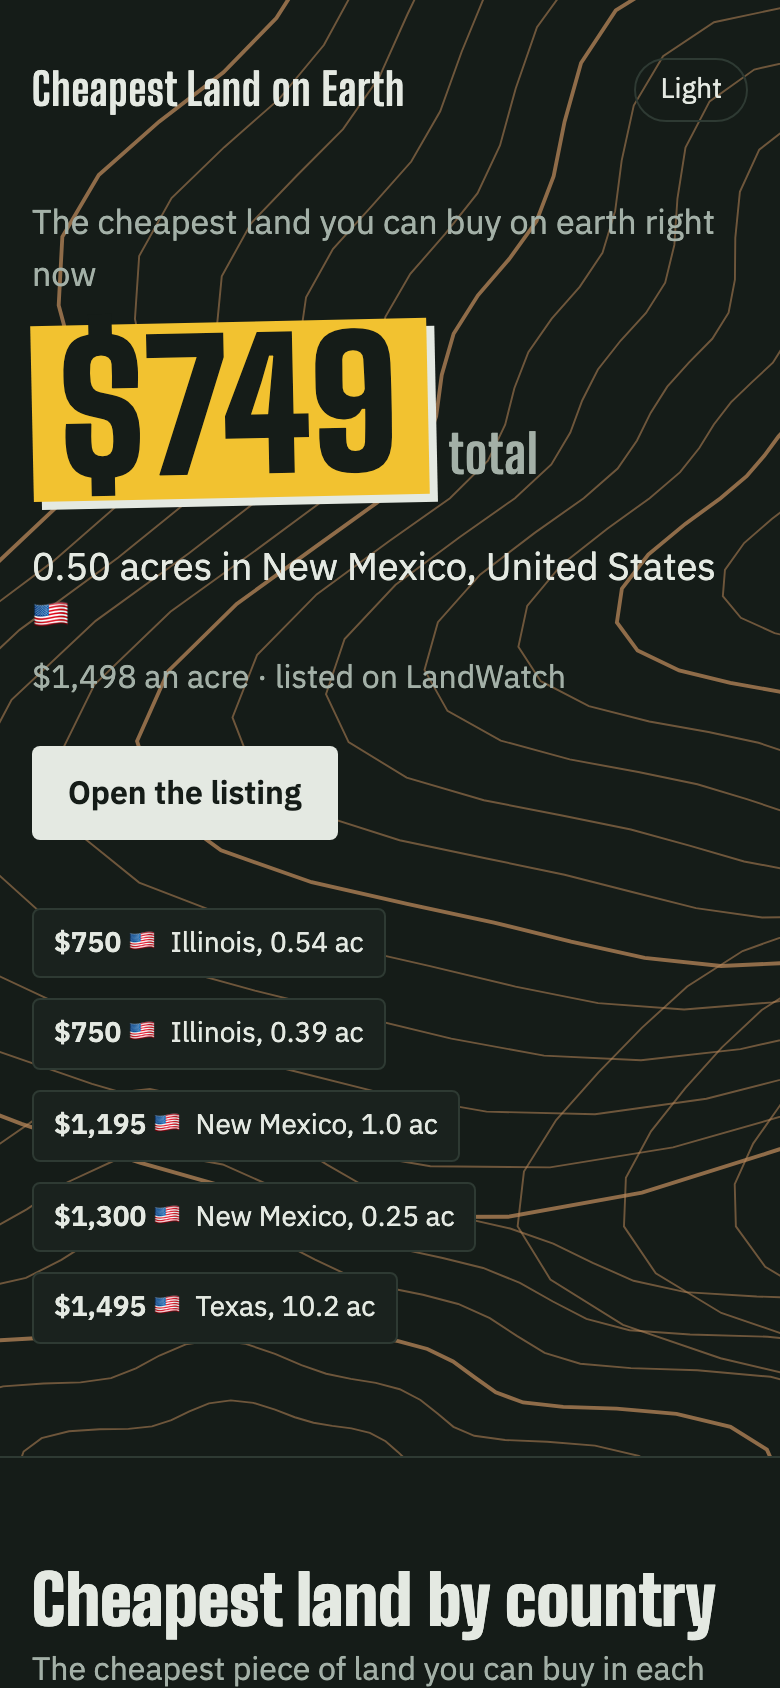
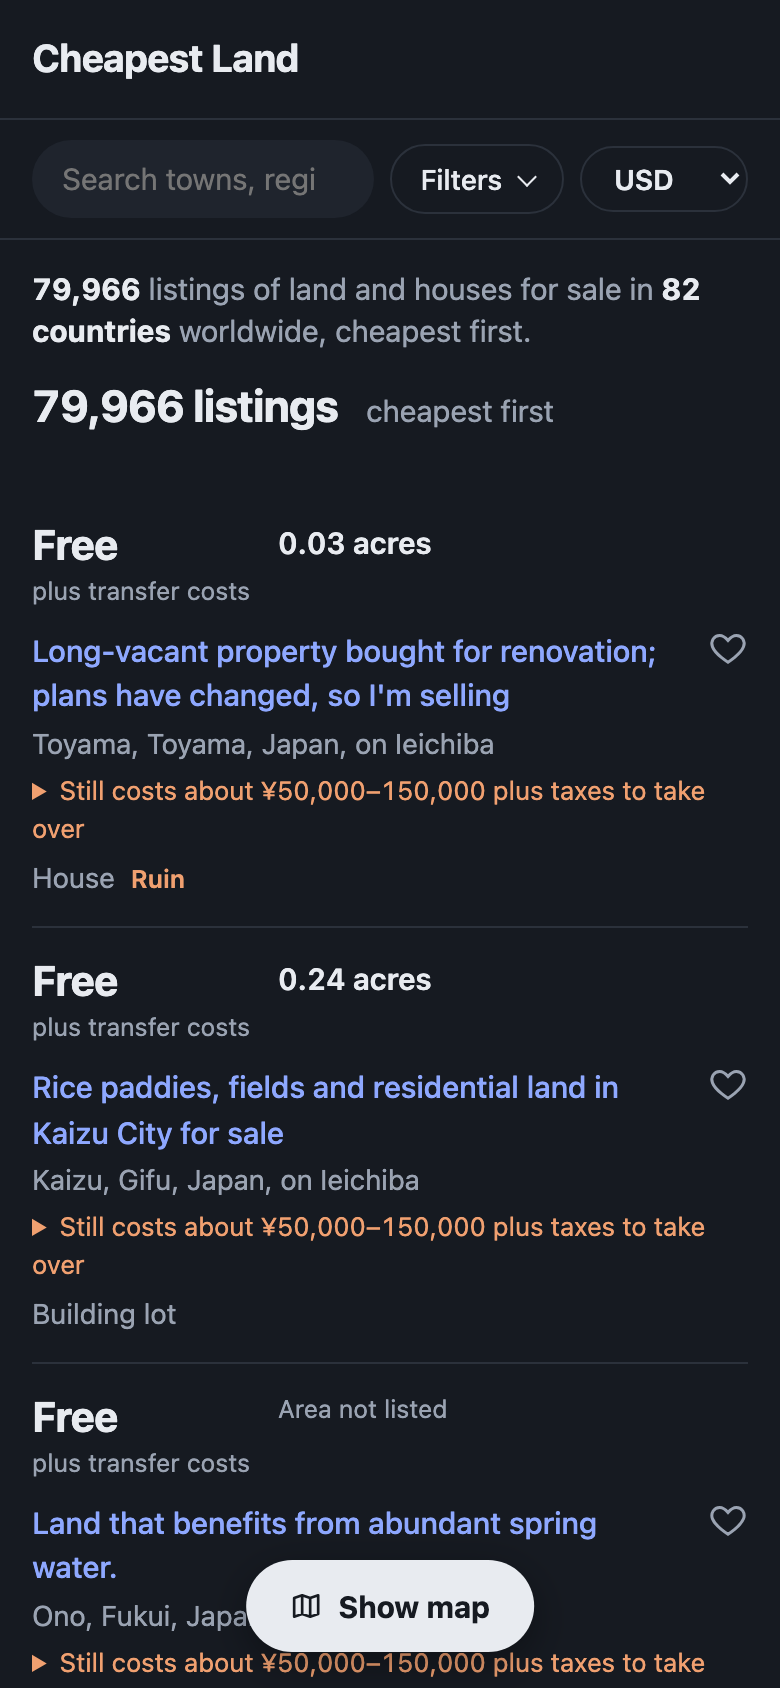
README: screenshots of the current site, and a script to retake them
The old ones showed the October design. tools/screenshots.py takes the list,
map, a Europe filter and a dark-mode phone view from the site/ build.

diff --git a/tools/screenshots.py b/tools/screenshots.py
@@ -1,0 +1,73 @@
+#!/usr/bin/env python3
+"""Retake the README screenshots (docs/screenshots/) from the current site/ build, in headless Chromium.
+Run it after a scrape (or tools/rebuild_site.py) whenever the site's look changes:
+  .venv/bin/python tools/screenshots.py
+"""
+import functools, http.server, os, threading
+
+from playwright.sync_api import sync_playwright
+
+ROOT = os.path.dirname(os.path.dirname(os.path.abspath(__file__)))
+SITE, OUT = os.path.join(ROOT, "site"), os.path.join(ROOT, "docs", "screenshots")
+# the storage notice only shows on a first visit; the shots show the page as a returning visitor sees it
+QUIET = "try { localStorage.setItem('notice-ok', '1'); localStorage.setItem('counted', '1'); } catch (e) {}"
+
+
+class Quiet(http.server.SimpleHTTPRequestHandler):
+    def log_message(self, *args):
+        pass
+
+
+def serve():
+    server = http.server.ThreadingHTTPServer(("127.0.0.1", 0), functools.partial(Quiet, directory=SITE))
+    threading.Thread(target=server.serve_forever, daemon=True).start()
+    return server, "http://127.0.0.1:%d/" % server.server_port
+
+
+def open_page(browser, url, **context):
+    page = browser.new_context(**context).new_page()
+    page.add_init_script(QUIET)
+    page.goto(url)
+    page.wait_for_function("!document.getElementById('count').classList.contains('loading')", timeout=60000)
+    page.wait_for_timeout(800)  # the rows' fade-in
+    return page
+
+
+def shoot(page, name):
+    page.screenshot(path=os.path.join(OUT, name))
+    print("wrote docs/screenshots/" + name)
+
+
+def main():
+    assert os.path.exists(os.path.join(SITE, "data.json")), "no site/ build: run a scrape or tools/rebuild_site.py first"
+    os.makedirs(OUT, exist_ok=True)
+    server, url = serve()
+    desktop = dict(viewport={"width": 1440, "height": 900}, color_scheme="light")
+    with sync_playwright() as pw:
+        browser = pw.chromium.launch()
+
+        page = open_page(browser, url, **desktop)  # the list, cheapest first
+        shoot(page, "list.png")
+
+        page.click("#t-map")  # every listing on the map
+        page.wait_for_timeout(3000)  # map tiles
+        shoot(page, "map.png")
+
+        page = open_page(browser, url, **desktop)  # filtered to one continent
+        page.click("#b-where")
+        page.locator("#tfcont label", has_text="Europe").first.click()
+        page.keyboard.press("Escape")
+        page.mouse.move(0, 0)  # no row hover highlight
+        page.evaluate("scrollTo(0, 0)")
+        page.wait_for_timeout(800)
+        shoot(page, "europe.png")
+
+        page = open_page(browser, url, viewport={"width": 390, "height": 844}, device_scale_factor=2,
+                         color_scheme="dark", is_mobile=True, has_touch=True)
+        shoot(page, "phone.png")
+        browser.close()
+    server.shutdown()
+
+
+if __name__ == "__main__":
+    main()

diff --git a/README.md b/README.md
@@ -23,10 +23,12 @@ Every row links to the live listing.
 
 <br>
 
-| Desktop | Phone (dark mode) |
+| Every listing, cheapest first | On a phone, in dark mode |
 |---|---|
-| ![Home page: today's cheapest listing and the runners-up](docs/screenshots/home.png) | <img src="docs/screenshots/phone.png" alt="Home page on a phone in dark mode" width="260"> |
-| ![Map of every listing with coordinates, coloured by total price](docs/screenshots/map.png) | ![Listings table filtered to Poland, at least 1 acre](docs/screenshots/listings.png) |
+| ![The list view: filters on the left, listings ranked by total price with land size, location, type and source](docs/screenshots/list.png) | <img src="docs/screenshots/phone.png" alt="The list on a phone in dark mode" width="260"> |
+| ![The map view: listings grouped into bubbles showing how many there are and the cheapest price](docs/screenshots/map.png) | ![The list filtered to Europe: 8,331 listings, cheapest first](docs/screenshots/europe.png) |
+
+<sub>Screenshots are taken from the real site with `tools/screenshots.py`.</sub>
 
 ## ✨ Highlights
 
@@ -431,7 +433,7 @@ When a site changes its markup, refresh the matching fixture by saving one searc
 listings; the parser tests show which fields are expected.
 
 `tools/` has small probe scripts used to work out Properstar's URL parameters and LandWatch's page structure,
-and `rebuild_site.py` (see above).
+`rebuild_site.py` (see above), and `screenshots.py`, which retakes the README screenshots from the current `site/` build.
 
 ## ⚖ Legal
 
